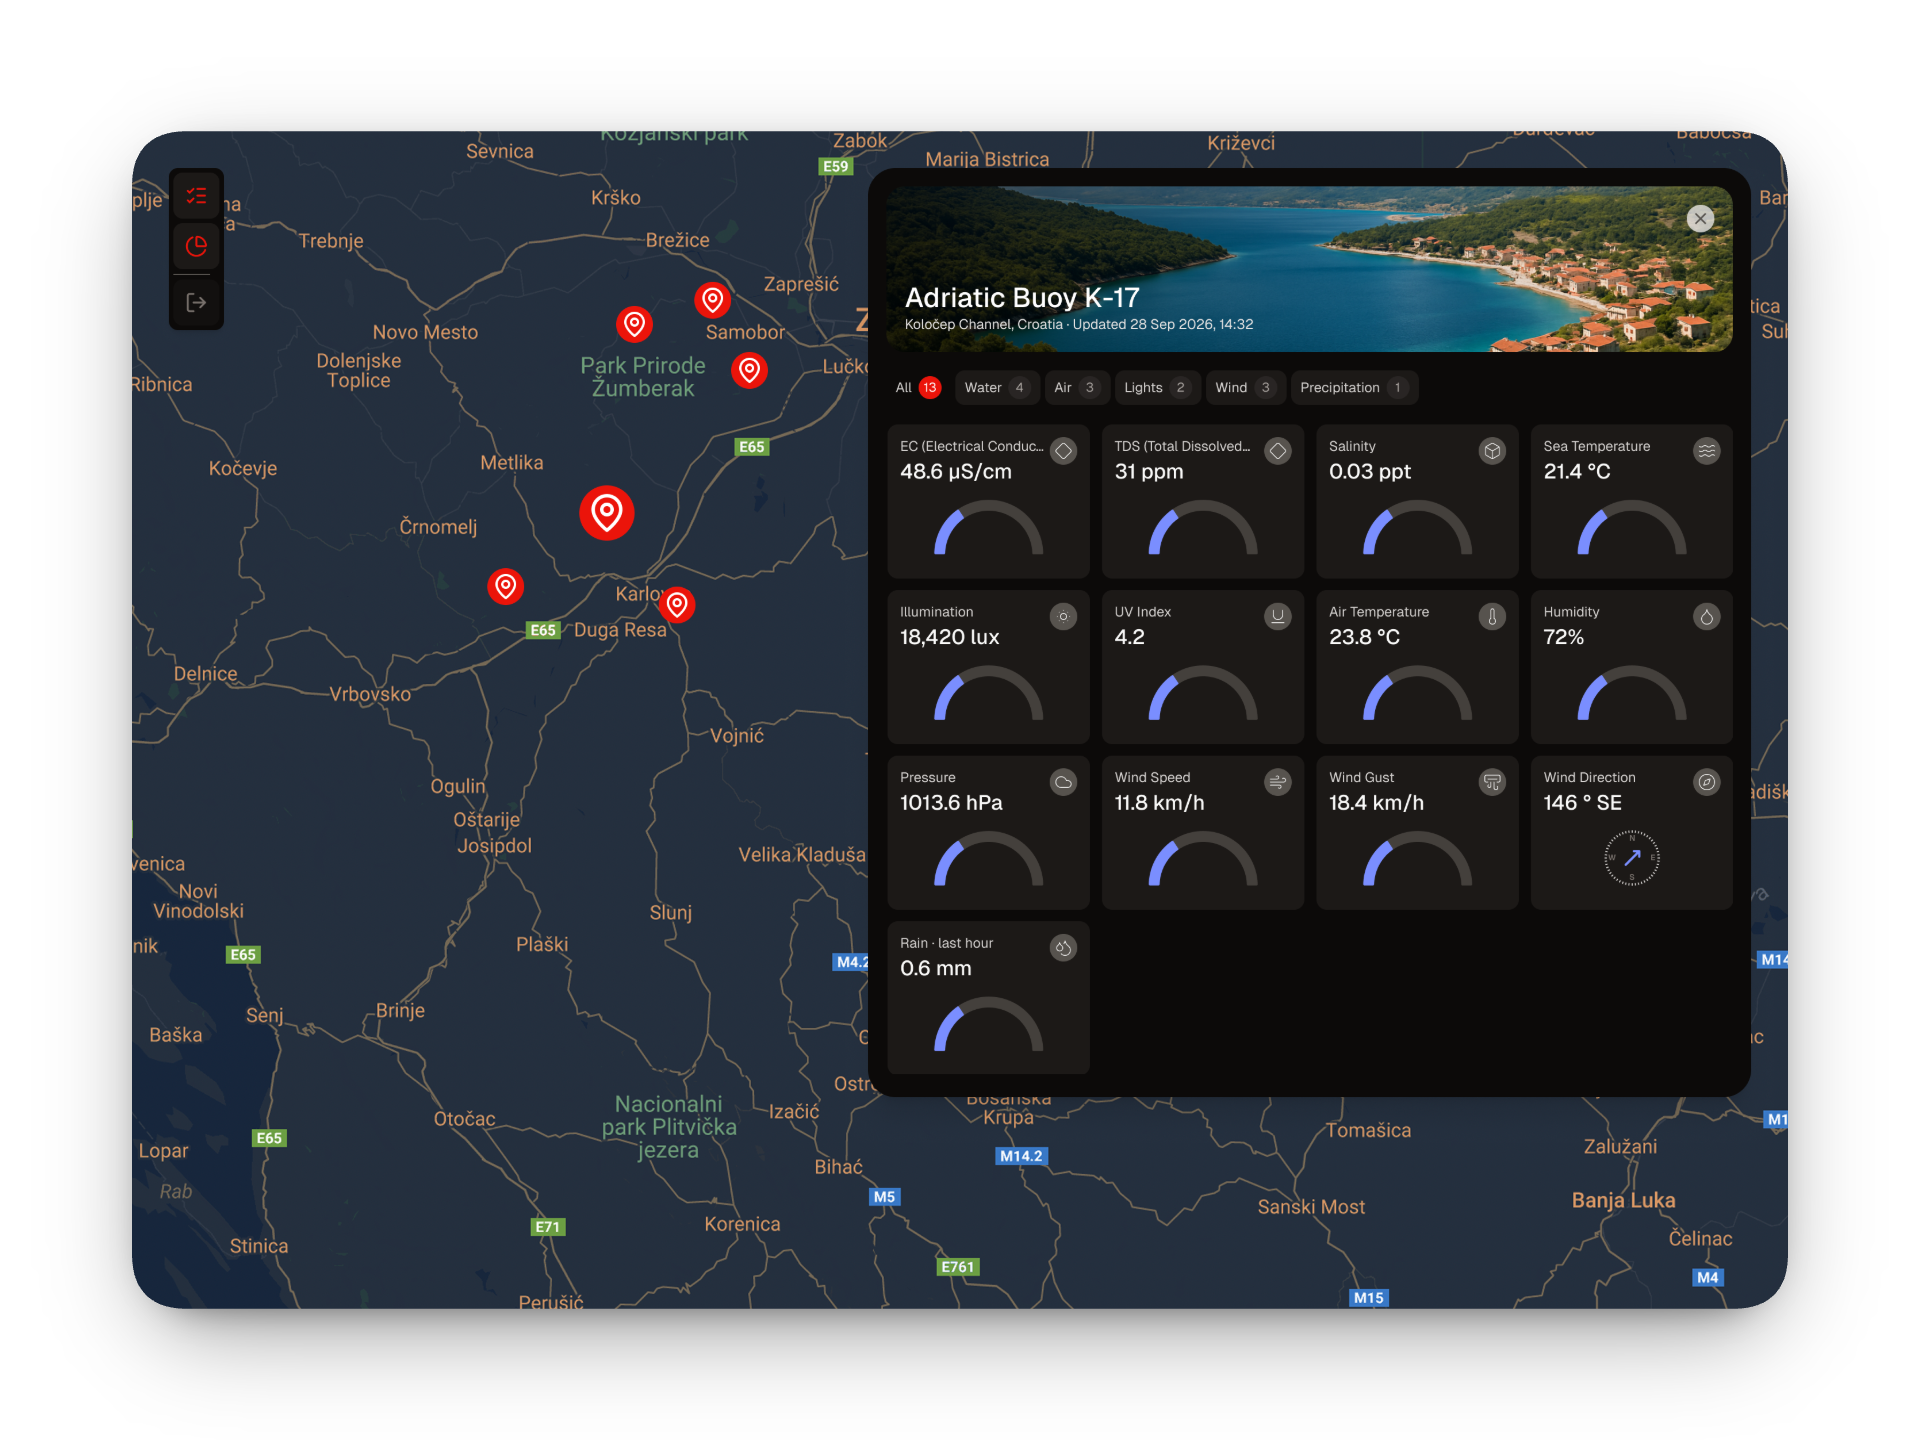
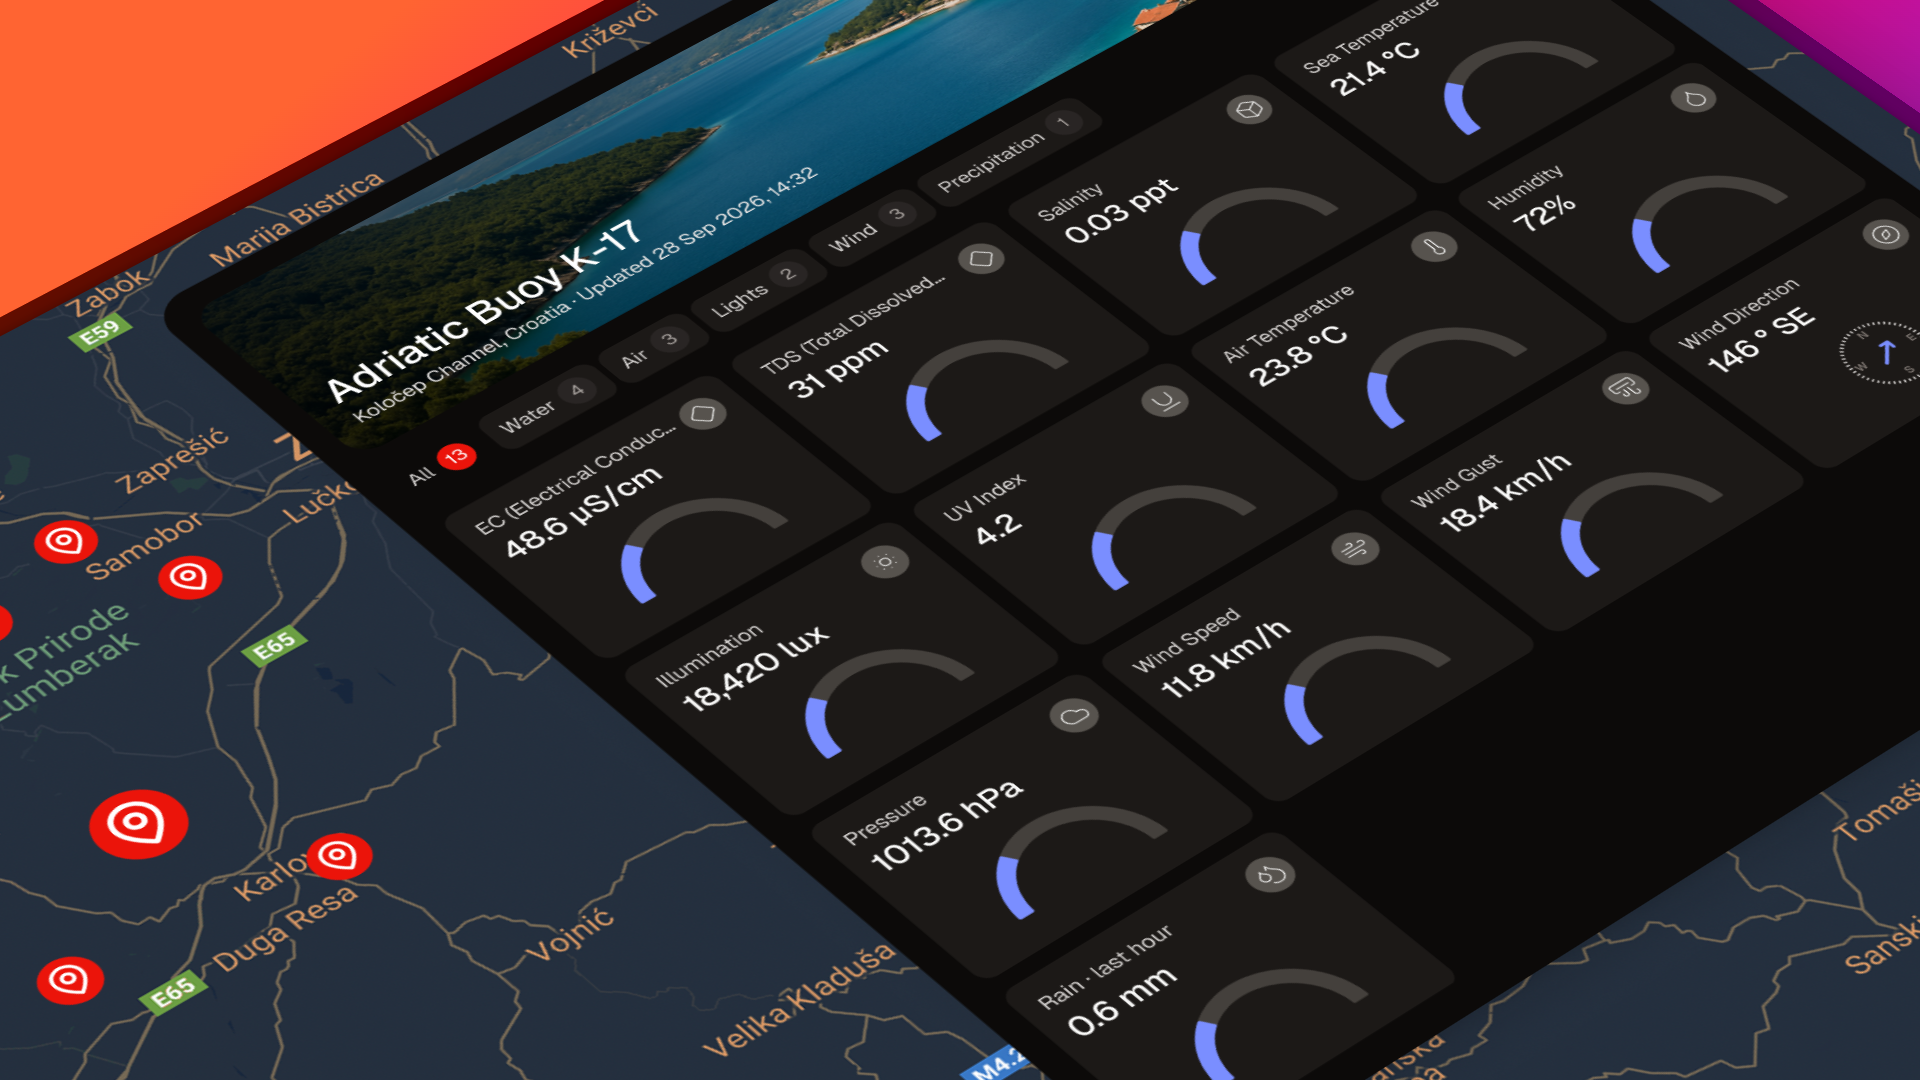
Новая обложка кейса экомониторинга — панель буя крупным планом
Кадр 1920×1080 непрозрачный: плашка обложки 16:9 через поле ratio,
кадр встаёт целиком. Прежний мокап остался превью (mockup.png).

diff --git a/src/data/cases.ts b/src/data/cases.ts
@@ -15,6 +15,7 @@ import type { ImageMetadata } from "astro";
 import coffee from "../assets/case-coffee-mood.png";
 import nova from "../assets/case-nova-landing.png";
 import ecoCover from "../assets/cases/saas/cover.png";
+import ecoMockup from "../assets/cases/saas/mockup.png";
 import ecoGeneral from "../assets/cases/saas/gallery-1-settings-general.png";
 import ecoAqi from "../assets/cases/saas/gallery-2-settings-aqi.png";
 import ecoStats from "../assets/cases/saas/gallery-3-statistics.png";
@@ -69,6 +70,11 @@ export interface CaseImage {
    * Выходящие за окно прозрачные поля обрезает плашка, корпус остаётся внутри.
    */
   scale?: number;
+  /**
+   * Пропорция плашки обложки, если картинка не 31:27. Непрозрачный кадр
+   * встаёт в окно своей пропорции целиком: поля 5% — стекло, обрезки нет.
+   */
+  ratio?: string;
 }
 
 export interface CaseStudy {
@@ -220,10 +226,9 @@ export const caseStudies: CaseStudy[] = [
     // Готовый мокап от заказчика — вставлен как есть, целиком
     cover: {
       src: ecoCover,
-      alt: "Главный экран в тёмной теме: карта с датчиками и панель буя с 13 показателями",
-      fit: "contain",
-      // Корпус занимает 86% ширины файла: при 1.2 — 93% ширины рамки, по бокам ~23px стекла
-      scale: 1.2,
+      alt: "Панель буя крупным планом: 13 показателей воды, воздуха и ветра поверх карты с датчиками",
+      // Кадр 1920×1080 во всю площадь — плашка под него 16:9
+      ratio: "16 / 9",
     },
     // Готовые диалоги от заказчика с прозрачным фоном — как есть, в стеклянных рамках
     gallery: [
@@ -245,9 +250,9 @@ export const caseStudies: CaseStudy[] = [
       { value: "15 мин", label: "на настройку без выезда" },
     ],
     preview: {
-      src: ecoCover,
+      src: ecoMockup,
       alt: "Кейс: платформа экомониторинга — главный экран в тёмной теме",
-      // Тот же мокап, что на обложке. Корпус — 86% ширины файла, остальное
+      // Мокап с прозрачным фоном. Корпус — 86% ширины файла, остальное
       // прозрачные поля. В карточке по центру: при 108% корпус 93% ширины
       // плашки, как на обложке.
       class: "absolute left-1/2 top-1/2 h-auto w-[108%] max-w-none -translate-x-1/2 -translate-y-1/2",

diff --git a/PLAN.md b/PLAN.md
@@ -1013,7 +1013,13 @@ Figma MCP с масштабом 2 (2880×2048). Обычный скриншот 
 Старая нарезка галереи удалена (есть в истории git).
 
 **Превью** (слайдер героя, карточка на главной, «Другие проекты») —
-тот же мокап, что на обложке, отдельный `preview.png` удалён. В слайдере
-мокап прижат к верху, как остальные устройства: сдвиг на 9.2% своей высоты
-убирает прозрачное поле над корпусом. В карточке — по центру, корпус 93%
-ширины плашки.
+мокап `mockup.png` (бывшая обложка), отдельный `preview.png` удалён.
+В слайдере мокап прижат к верху, как остальные устройства: сдвиг на 9.2%
+своей высоты убирает прозрачное поле над корпусом. В карточке — по центру,
+корпус 93% ширины плашки.
+
+**Обложка заменена** на кадр `969_1x_shots_so.png` → `cover.png`
+(1920×1080, непрозрачный, панель буя крупным планом). Прозрачного фона
+нет, поэтому не contain, а заполнение окна: у обложки появилось поле
+`ratio` — плашка 16:9 вместо 31:27, окно с полями 5% тоже 16:9, кадр
+встаёт целиком без обрезки, скругление 3px. Остальные кейсы — 31:27.
